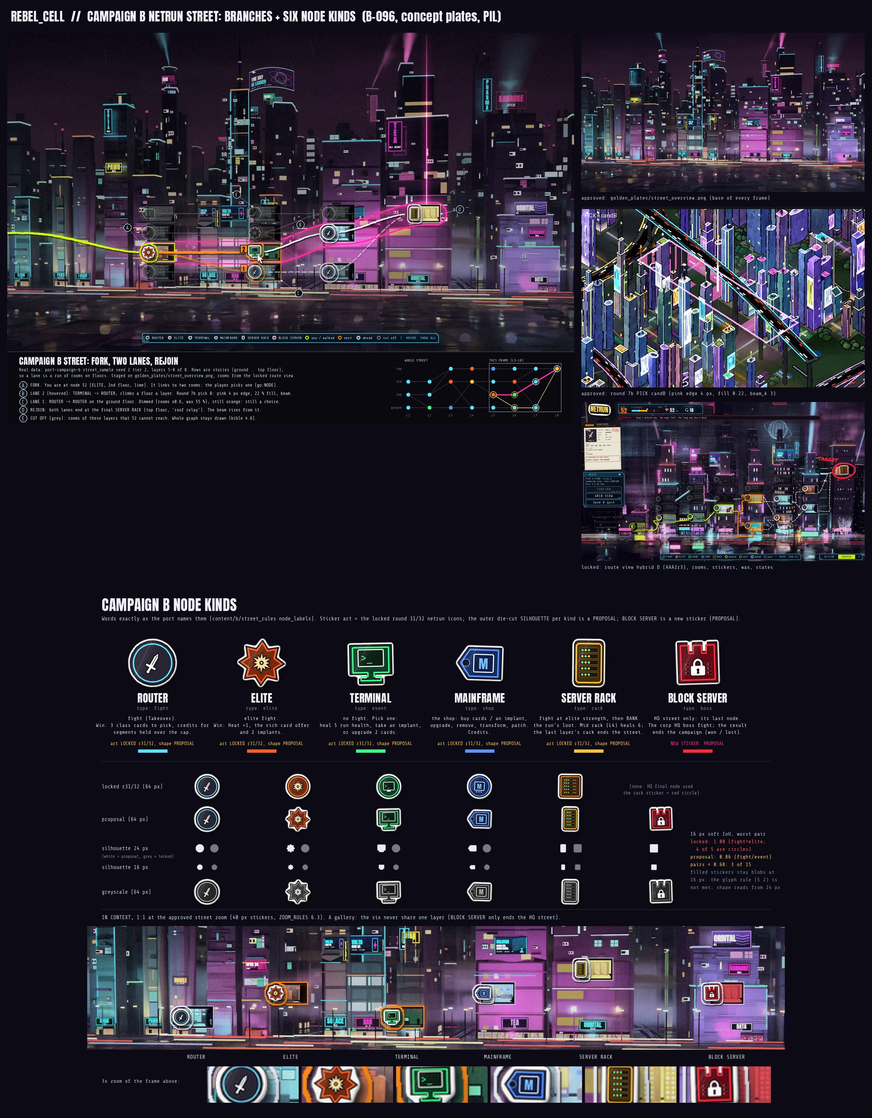
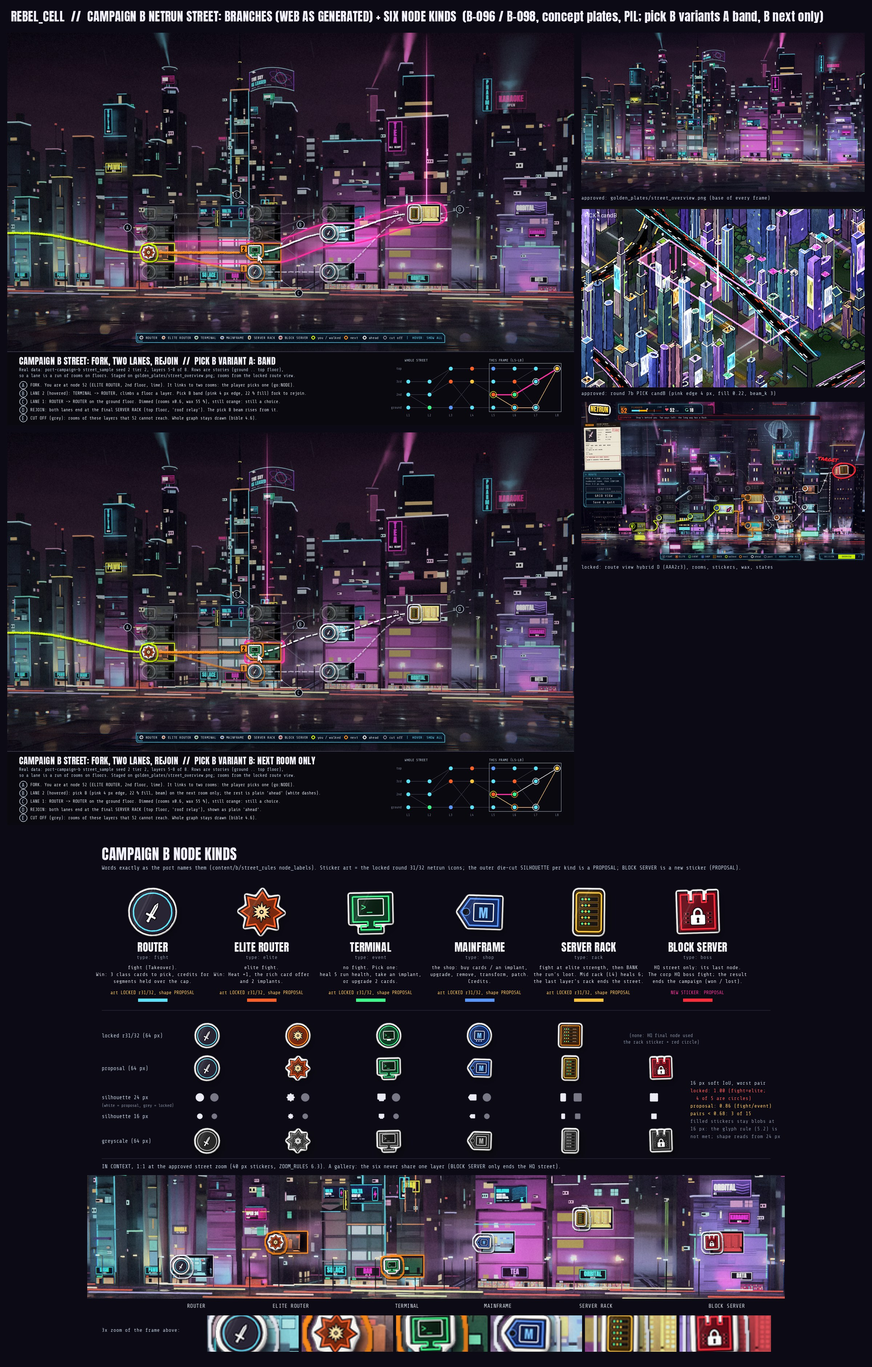
Street plates: ELITE ROUTER on screen, two pick-B variants (band / next room), keep-the-web ruling in NOTES (B-098)

diff --git a/docs/concepts/netrun_cel/street_b/src/street_branch_compose.py b/docs/concepts/netrun_cel/street_b/src/street_branch_compose.py
@@ -21,7 +21,7 @@ def callout(img, x, y, letter, tx=None, ty=None):
     return img
 
 
-def mini_graph(img, x0, y0, w, h, N, depth, lanes, cur, hover, opts, reach):
+def mini_graph(img, x0, y0, w, h, N, depth, lanes, cur, hover, opts, reach, variant="A"):
     """The whole street of the sample (8 layers x 4 stories): the frame's window bracketed, the lanes coloured."""
     d = ImageDraw.Draw(img)
     lx = lambda l: x0 + 18 + (l - 1) * (w - 36) / (depth - 1)
@@ -39,7 +39,8 @@ def mini_graph(img, x0, y0, w, h, N, depth, lanes, cur, hover, opts, reach):
             m = N[j]
             p0, p1 = (lx(n["layer"]), ry(n["row"])), (lx(m["layer"]), ry(m["row"]))
             if i in hi and j in hi and hi.index(j) == hi.index(i) + 1:
-                d.line([p0, p1], fill=B.PICKB + (255,), width=4)
+                pink = variant == "A" or i == cur
+                d.line([p0, p1], fill=(B.PICKB if pink else B.WHITE) + (255,), width=4 if pink else 2)
             elif i in lo and j in lo and lo.index(j) == lo.index(i) + 1:
                 d.line([p0, p1], fill=(255, 190, 120, 200), width=2)
             else:
@@ -58,9 +59,29 @@ def mini_graph(img, x0, y0, w, h, N, depth, lanes, cur, hover, opts, reach):
     return img
 
 
+VARIANTS = {
+    "A": ("street_branch_A_band.png", "PICK B VARIANT A: BAND",
+          "LANE 2 (hovered): TERMINAL -> ROUTER, climbs a floor a layer. Pick B band (pink 4 px edge, 22 % fill) fork to rejoin.",
+          "REJOIN: both lanes end at the final SERVER RACK (top floor, 'roof relay'). The pick B beam rises from it."),
+    "B": ("street_branch_B_next.png", "PICK B VARIANT B: NEXT ROOM ONLY",
+          "LANE 2 (hovered): pick B (pink 4 px edge, 22 % fill, beam) on the next room only; the rest is plain 'ahead' (white dashes).",
+          "REJOIN: both lanes end at the final SERVER RACK (top floor, 'roof relay'), shown as plain 'ahead'."),
+}
+
+
 def run():
-    frame, N, lanes, win, opts, reach = SB.main()
-    frame.convert("RGB").save(B.SCR + "/street_branch_frame.png")
+    for v in ("A", "B"):
+        run_one(v)
+    import os
+    old = B.OUTDIR + "/street_branch.png"
+    if os.path.exists(old):
+        os.remove(old)
+
+
+def run_one(variant):
+    fname, title, note_b, note_d = VARIANTS[variant]
+    frame, N, lanes, win, opts, reach = SB.main(variant)
+    frame.convert("RGB").save(B.SCR + "/street_branch_frame_%s.png" % variant)
     img = frame.copy()
     bx = lambda i: SB.box_of(N[i])
     # plate notes on the frame
@@ -82,16 +103,16 @@ def run():
     d.line([(0, B.H), (B.W, B.H)], fill=(60, 60, 80, 255), width=2)
     y0 = B.H + 18
     t = B.font_anton(30)
-    B.K.text(out, (40, y0 + 14), "CAMPAIGN B STREET: FORK, TWO LANES, REJOIN", t, (240, 240, 250), "lm", 0.5)
+    B.K.text(out, (40, y0 + 14), "CAMPAIGN B STREET: FORK, TWO LANES, REJOIN  //  " + title, t, (240, 240, 250), "lm", 0.5)
     B.K.text(out, (40, y0 + 44), "Real data: port-campaign-b street_sample seed 2 tier 2, layers 5-8 of 8. Rows are stories (ground .. top floor),",
              B.font_mono(15), NOTE, "lm", 0)
     B.K.text(out, (40, y0 + 64), "so a lane is a run of rooms on floors. Staged on golden_plates/street_overview.png; rooms from the locked route view.",
              B.font_mono(15), NOTE, "lm", 0)
     notes = [
-        ("A", "FORK. You are at node 52 (ELITE, 2nd floor, lime). It links to two rooms: the player picks one (go:NODE)."),
-        ("B", "LANE 2 (hovered): TERMINAL -> ROUTER, climbs a floor a layer. Round 7b pick B: pink 4 px edge, 22 % fill, beam."),
+        ("A", "FORK. You are at node 52 (ELITE ROUTER, 2nd floor, lime). It links to two rooms: the player picks one (go:NODE)."),
+        ("B", note_b),
         ("C", "LANE 1: ROUTER -> ROUTER on the ground floor. Dimmed (rooms x0.6, wax 55 %), still orange: still a choice."),
-        ("D", "REJOIN: both lanes end at the final SERVER RACK (top floor, 'roof relay'). The beam rises from it."),
+        ("D", note_d),
         ("E", "CUT OFF (grey): rooms of these layers that 52 cannot reach. Whole graph stays drawn (bible 4.6)."),
     ]
     yy = y0 + 96
@@ -101,9 +122,9 @@ def run():
         yy += 28
     import json
     s = json.load(open(B.SCR + "/samples.json"))[SB.SAMPLE]
-    out = mini_graph(out, 1340, B.H + 34, 540, 172, N, s["depth"], lanes, SB.CUR, SB.HOVER, opts, reach)
-    out.convert("RGB").save(B.OUTDIR + "/street_branch.png")
-    print("saved", B.OUTDIR + "/street_branch.png")
+    out = mini_graph(out, 1340, B.H + 34, 540, 172, N, s["depth"], lanes, SB.CUR, SB.HOVER, opts, reach, variant)
+    out.convert("RGB").save(B.OUTDIR + "/" + fname)
+    print("saved", B.OUTDIR + "/" + fname)
 
 
 if __name__ == "__main__":

diff --git a/docs/concepts/netrun_cel/street_b/src/street_branch.py b/docs/concepts/netrun_cel/street_b/src/street_branch.py
@@ -40,7 +40,10 @@ def stk_xy(n):
     return (x0 + 2, (y0 + y1) / 2)
 
 
-def main():
+def main(variant="A"):
+    """variant A (band): pick B from the fork through the hovered lane to the rejoin, beam from the rejoin.
+    variant B (next only): pick B on the hovered next room only, beam from that room; the rest of the lane is plain
+    'ahead' (white dashes, full rooms)."""
     N, s = load()
     win = {i: n for i, n in N.items() if FIRST <= n["layer"] <= LAST}
     opts = N[CUR]["links"]                                    # [61, 62]
@@ -77,20 +80,34 @@ def main():
     for a, b in zip(pts[1:], pts[2:]):
         band_pts += B.link_path(a, b)[1:]
     band_pts.append((pts[-1][0] + 30, pts[-1][1]))
-    mask = B.lane_mask(img.size, band_pts, RH + 30)
+    if variant == "A":
+        mask = B.lane_mask(img.size, band_pts, RH + 30)
+    else:
+        # B: a pick B pad round the hovered next room only (a rounded block one slab wider than the room)
+        hb = box_of(N[HOVER])
+        cx, cy = (hb[0] + hb[2]) / 2, (hb[1] + hb[3]) / 2
+        # a rounded pad 14 px proud of the room's cut edge sideways, 8 px up and down (the slab gap to the rooms
+        # stacked above / below is 16 px, so the pink edge stays visible between them)
+        mask = Image.new("L", img.size, 0)
+        ImageDraw.Draw(mask).rounded_rectangle([hb[0] - 34, hb[1] - 16, hb[2] + 16, hb[3] + 12], radius=10, fill=255)
     img = B.grade(img, mask, k_out=0.86, desat_out=0.12)
 
     # rooms: every node of the window is a real room (whole graph shown, bible 4.6)
     lo_set = set(lane_lo[1:-1]) - set(lane_hi)
-    # the fill sits on the facade band (as it sits on the road lots in the city band); the rooms stay clear
+    # the fill sits on the facade (as it sits on the road lots in the city band); the rooms stay clear
     img = B.pick_b(img, mask)
+    if variant == "B":
+        # beam from the hovered room, drawn before the rooms so the rooms stacked above occlude it
+        hb = box_of(N[HOVER])
+        img = B.beam(img, (hb[0] + hb[2]) / 2, 0, hb[1] - 8, k=3.0)
     for i, n in sorted(win.items()):
         st = state(i)
         mode = "grey" if st == "grey" else ("dim" if i in lo_set else "full")
         img = B.room(img, n["type"], box_of(n), mode)
-    # beam (pick B beam_k 3.0) from the lane's end: the final SERVER RACK on the top floor, rising to the sky
-    end = box_of(N[lane_hi[-1]])
-    img = B.beam(img, (end[0] + end[2]) / 2, 0, end[1] - 8, k=3.0)
+    if variant == "A":
+        # beam (pick B beam_k 3.0) from the lane's end: the final SERVER RACK on the top floor, rising to the sky
+        end = box_of(N[lane_hi[-1]])
+        img = B.beam(img, (end[0] + end[2]) / 2, 0, end[1] - 8, k=3.0)
 
     # room frames in the state colour (route view: the room's cut edge carries the state)
     for i, n in win.items():
@@ -122,7 +139,10 @@ def main():
                 grey_paths.append(p)
     img = B.wax(img, grey_paths, B.GREY, 4.0, alpha=0.38, seed=504, clear=clear)
     img = B.wax(img, ahead_lo, B.WHITE, 5.0, alpha=0.55, dash=(14.0, 9.0), seed=503, clear=clear)
-    img = B.wax(img, ahead_hi, B.WHITE, 5.6, alpha=1.0, seed=505, clear=clear)
+    if variant == "A":
+        img = B.wax(img, ahead_hi, B.WHITE, 5.6, alpha=1.0, seed=505, clear=clear)
+    else:
+        img = B.wax(img, ahead_hi, B.WHITE, 5.2, alpha=1.0, dash=(14.0, 9.0), seed=505, clear=clear)
     # walked: in from layer 4 (node 42 r2 rack, off frame left) to the current node
     cxy = stk_xy(N[CUR])
     walked = B.link_path((-20, ROW0_TOP - PITCH * 2 + RH / 2), cxy, bend=0.7)

diff --git a/docs/concepts/netrun_cel/street_b/src/sheet.py b/docs/concepts/netrun_cel/street_b/src/sheet.py
@@ -14,12 +14,16 @@ def fit(im, w):
 
 
 def main():
-    sb = Image.open(B.OUTDIR + "/street_branch.png").convert("RGB")
+    sa = Image.open(B.OUTDIR + "/street_branch_A_band.png").convert("RGB")
+    sbn = Image.open(B.OUTDIR + "/street_branch_B_next.png").convert("RGB")
     nk = Image.open(B.OUTDIR + "/node_kinds.png").convert("RGB")
     gold = Image.open(B.GOLDEN).convert("RGB")
     r7 = Image.open(B.CONC + "/netrun_cel/zoom_rules/round7b/crop_sheet.png").convert("RGB").crop((1100, 345, 1640, 690))
     aaa = Image.open(B.CONC + "/route_map_graph/side_view/v3_aaa/r3/AAA2r3.png").convert("RGB")
-    left = fit(sb, 1560)
+    la, lb = fit(sa, 1560), fit(sbn, 1560)
+    left = Image.new("RGB", (1560, la.height + 20 + lb.height), (12, 10, 20))
+    left.paste(la, (0, 0))
+    left.paste(lb, (0, la.height + 20))
     rw = SW - left.width - 60
     refs = [(fit(gold, rw), "approved: golden_plates/street_overview.png (base of every frame)"),
             (fit(r7, rw), "approved: round 7b PICK candB (pink edge 4 px, fill 0.22, beam_k 3)"),
@@ -28,7 +32,7 @@ def main():
     H = 90 + top_h + 40 + nk.height + 30
     out = Image.new("RGB", (SW, H), (12, 10, 20))
     o = out.convert("RGBA")
-    B.K.text(o, (30, 45), "REBEL_CELL  //  CAMPAIGN B NETRUN STREET: BRANCHES + SIX NODE KINDS  (B-096, concept plates, PIL)",
+    B.K.text(o, (30, 45), "REBEL_CELL  //  CAMPAIGN B NETRUN STREET: BRANCHES (WEB AS GENERATED) + SIX NODE KINDS  (B-096 / B-098, concept plates, PIL; pick B variants A band, B next only)",
              B.font_anton(34), (240, 240, 250), "lm", 0.4)
     o.paste(left, (20, 90))
     y = 90

diff --git a/docs/concepts/netrun_cel/street_b/src/sb_lib.py b/docs/concepts/netrun_cel/street_b/src/sb_lib.py
@@ -54,7 +54,7 @@ PICKB_LINE = 4
 # orange, the proposal splits them: elite red-orange, rack amber).
 KINDS = {
     "fight": dict(word="ROUTER", locked="router", shape="circle", col=(40, 36, 52), ring=(92, 225, 255), cell="router"),
-    "elite": dict(word="ELITE", locked="elite", shape="burst", col=(120, 40, 14), ring=(255, 96, 40), cell="elite"),
+    "elite": dict(word="ELITE ROUTER", locked="elite", shape="burst", col=(120, 40, 14), ring=(255, 96, 40), cell="elite"),
     "event": dict(word="TERMINAL", locked="terminal", shape="rsq", col=(14, 60, 36), ring=(61, 255, 139), cell="terminal"),
     "shop": dict(word="MAINFRAME", locked="modem", shape="tag", col=(20, 40, 96), ring=(90, 150, 255), cell="shop"),
     "rack": dict(word="SERVER RACK", locked="rack", shape="tall", col=(66, 44, 8), ring=(255, 196, 60), cell="rack"),

diff --git a/docs/concepts/netrun_cel/street_b/NOTES.md b/docs/concepts/netrun_cel/street_b/NOTES.md
@@ -1,81 +1,111 @@
-# Campaign B street: branches + six node kinds (B-096)
+# Campaign B street: branches + six node kinds (B-096, B-098)
 
 Concept plates only, PIL compositing, built from approved plates. Not committed.
-- `street_branch.png`: the staged street (golden `street_overview.png` framing) with a real fork, two lanes and a rejoin. Lane 2 is hovered in round 7b pick B. Lane 1 is dimmed but still a choice.
-- `node_kinds.png`: a key strip of the six kinds with what each does; the locked round 31/32 stickers next to the proposal silhouettes; silhouette, greyscale and 16 px checks; the six kinds in context, 1:1 at the approved zoom.
-- `street_b_sheet.jpg`: both plates with the three references they are built from.
-- `src/`: the scripts. Run order is `street_samples.py`, `street_branch.py`, `node_kinds.py`, `sheet.py`. Scratch files are in `D:/rc_scratch/street_b/`.
+
+## Files
+- **`street_branch_A_band.png`** (pick B variant A, band): the staged street (golden `street_overview.png` framing) with a real fork, two lanes and a rejoin.
+  - Pick B runs from the fork through the hovered lane to the rejoin.
+  - The beam rises from the rejoin.
+  - The other lane is dimmed but still a choice.
+- **`street_branch_B_next.png`** (pick B variant B, next only): the same street.
+  - Pick B is a pad on the hovered next room only, with the beam rising from that room behind the rooms stacked above it.
+  - The rest of the hovered lane is plain "ahead" (white dashes, full rooms).
+  - The old single `street_branch.png` is removed.
+- **`node_kinds.png`**:
+  - a key strip of the six kinds with what each does;
+  - the locked round 31/32 stickers beside the proposal silhouettes;
+  - silhouette, greyscale and 16 px checks;
+  - the six kinds in context, 1:1 at the approved zoom.
+- **`street_b_sheet.jpg`**: both branch variants and node kinds, with the three references they are built from.
+- **`src/`**: the scripts. Run order is `street_samples.py`, `street_branch.py` (writes both variants), `node_kinds.py`, `sheet.py`. Scratch files are in `D:/rc_scratch/street_b/`.
+
+## Rulings and answers recorded
+- **Designer ruling, 2026-11-15: "Keep the web".** The street is drawn as the four-floor web the generator makes (2-4 rooms a layer on four stories, paths crossing and merging, all rejoining at the last node), not as two lanes. The plates already draw it that way. "Two lanes" survives only as the name for a fork that splits into exactly two rooms and rejoins.
+- **B-098 (build, answering A-125):**
+  1. Draw the web as generated. Done.
+  2. The sixth kind is **SERVER RACK** (not CACHE).
+  3. The on-screen word for type `elite` is **ELITE ROUTER**. It replaces ELITE on every plate (key strip, stickers, labels, in-context strip, branch plates). The content's `node_labels` still says "ELITE"; build owns that change.
+  4. Depth is **8** for a site street and **10** for the HQ street.
+  5. Show both pick B variants; the designer picks at review. Done (A band, B next only).
+  6. The zoom-window re-check for 8 and 10 layers waits for build's Godot ping. Not done here, on purpose.
 
 ## Sources of each rule (all read only, from `port-campaign-b`)
-- **Node kinds and words**: `content/b/street_rules/b_street_rules.tres` `node_labels`. Types are in `scripts/state/street_node_state.gd` (`T_FIGHT .. T_BOSS`).
+- **Node kinds**: `content/b/street_rules/b_street_rules.tres` (`node_labels`); types are in `scripts/state/street_node_state.gd`. Screen words follow B-098.
 - **Generation**: `scripts/core/street_generator.gd`. Levers come from `tools/proto_web/export/data/street_gen.json`: `streetDepth` 8, `streetMin` 2, `streetMax` 4, `rackMid` 4, `eliteFrom`/`eliteTo` 3/6 at 85 %, `mfFrom`/`mfTo` 3/5, `mfExtraPct` 10, `terminalPct` 25, `linkExtraPct` 45, `hqDepth` 10, `reclaimDepth` 3.
 - **What each kind does**: `scripts/core/street_session.gd` (`enter_node`, `finish_fight`, `_event_move`, `next_floor`, `shop_move`). `is_elite()` covers elite and rack. Levers: `termHeal` 5, `rackHeal` 6, `heatElite` 1.
 - **Player picks**: in `street_session.move("go:NODE")`, the move is legal only for a node in `street.next_nodes()`, which are the current node's links.
 - **Rows are stories**: `story_labels` are ground floor, 2nd floor, 3rd floor and top floor. The lever text reads "at most 4: four stories".
 - **Real streets**: the 10 samples in `content/b/street_sample/`. `src/street_samples.py` parses them and finds every fork-to-rejoin window.
-- **Look**: bible 4.6 (hybrid D: rooms in the frontage, vinyl-sticker nodes, wax links, the ring states orange/lime/white/grey, the whole graph shown) and ZOOM_RULES 5.1 / 6 (framing, 40 px nodes). Round 7b candB gives the pick B values: edge (1.0, 0.18, 0.62), 4 px line, fill 0.22, beam_k 3.0. Sticker art comes from `route_map_graph/hq_halcyon/scripts/r32ui.py` (imported, not modified).
+- **Look**:
+  - bible 4.6: hybrid D (rooms in the frontage, vinyl-sticker nodes, wax links, the ring states orange/lime/white/grey, the whole graph shown);
+  - ZOOM_RULES 5.1 / 6: framing, 40 px nodes;
+  - round 7b candB: edge (1.0, 0.18, 0.62), 4 px line, fill 0.22, beam_k 3.0;
+  - sticker art: `route_map_graph/hq_halcyon/scripts/r32ui.py` (imported, not modified).
 
-## Node kinds (exact port words)
-| type | word | what it does (port) |
+## Node kinds (screen words per B-098)
+| type id | on-screen word | what it does (port) |
 |---|---|---|
 | fight | ROUTER | Takeover fight. A win offers 3 class cards, plus credits for segments held over the cap. |
-| elite | ELITE | Elite fight. A win adds Heat +1 and gives the rich card offer plus 2 implants. |
+| elite | ELITE ROUTER | Elite fight. A win adds Heat +1 and gives the rich card offer plus 2 implants. |
 | event | TERMINAL | No fight. Pick one: heal 5 run health, take an implant, or upgrade 2 random cards. |
 | shop | MAINFRAME | Buy cards or an implant, upgrade, remove, transform, patch. The first tier-1 visit gets one free action. |
 | rack | SERVER RACK | Fight configured as elite, rich reward, then BANKS the run's loot. The mid rack (layer 4) also heals 6 and adds Heat +1. The last-layer rack ends the street cleared. |
-| boss | BLOCK SERVER | Only on the HQ street, as its last node. HQ boss fight; the result ends the campaign (won or lost). |
+| boss | BLOCK SERVER | Only on the HQ street (10 layers), as its last node. HQ boss fight; the result ends the campaign (won or lost). |
 
 ## How branching works (per the rules)
-- A street is **8 layers** (`streetDepth`). Layer sizes:
-  - layer 1 and layer 7: 2-3 nodes;
-  - layers 2-6: 2-4 nodes;
+- A **site street is 8 layers** and the **HQ street is 10**. Layer sizes:
+  - layer 1 and the next-to-last layer: 2-3 nodes;
+  - the layers between: 2-4 nodes;
   - layer 4 (the mid rack): at least 3;
-  - layer 8: 1 node (SERVER RACK, or BLOCK SERVER on the HQ street).
-  The samples have 20-24 nodes. A walk visits 8 of them.
+  - the last layer: 1 node (SERVER RACK, or BLOCK SERVER on the HQ street).
+  Site samples have 20-24 nodes. A walk visits one node a layer.
 - Each node sits on a **row 0-3, which is a story**. Each node links forward to 1-3 nodes of the next layer: its nearest row index, plus each neighbour at 45 %. Every next-layer node gets at least one parent.
 - The **player picks** any linked next node (`go:NODE`). Nodes are never revisited.
-- **There are no persistent lanes.** Paths cross and merge every layer, and every path rejoins at the single final node. The designer's "two lanes in places" is what a run looks like where a node has exactly 2 links and the two runs stay apart until a shared node.
-  - Pure fork-to-rejoin windows appear in every sample (e.g. layer 6 → 7 → 8), usually 1 layer long.
-  - Seed 2 tier 2 and seed 3 tier 1 have a 2-layer pair. The plate uses seed 2 tier 2 from fork 52: 52 → {61 → 71, 62 → 72} → 81.
+- **There are no persistent lanes.** Paths cross and merge every layer, and all of them rejoin at the last node.
+  - Pure fork-to-rejoin windows appear in every sample (usually 1 layer long).
+  - Seed 2 tier 2 and seed 3 tier 1 have a 2-layer pair. The plates use seed 2 tier 2 from fork 52: 52 → {61 → 71, 62 → 72} → 81.
 - Counter wheels (35 %, tier 2+) are only ever placed where a route around them exists.
 
 ## Calls I made
-1. **A lane is a run of rooms on floors**, not a road lane. The data says rows are stories, and the locked route view already reads "PICK A FLOOR". So the fork is drawn as rooms splitting across floors in the frontage: the hovered lane climbs, the other stays on the ground floor.
-2. **Pick B moved from road lots to the facade band.** The pink 22 % fill and 4 px edge run as a band from the fork through the hovered lane to the rejoin, which is the street-level twin of the city band's segment. The fill skips the rooms so their kind light stays readable.
-3. **The beam rises from the rejoin**, the final rack on the top floor. Every other node has rooms stacked above it, so a beam there would cross them.
-4. **Dimming of the other lane** is softer than the bible's hover power cut (×0.20): rooms ×0.6, wax at 55 %, sticker at 78 %, orange ring kept. It must stay readable as an option. Outside the band the frame drops only ×0.86.
-5. **Staging.** The golden plate's camera has closed walls and no rooms. I cut the rooms into its frontage, using room interiors from the locked AAA2r3 render (one interior per kind). The 4-story columns, the room size (86×50, 66 px pitch) and the column placement are mine, not derived from a camera or a city layout. The BLOCK SERVER room is the rack room re-lit red; no render of it exists.
-6. **Stickers.** I kept the locked round 31/32 art inside every sticker and proposed a die-cut silhouette per kind:
+1. **A lane is a run of rooms on floors**, not a road lane. The data says rows are stories, and the locked route view already reads "PICK A FLOOR".
+2. **Pick B lives on the facade**, where it sits on the road lots in the city band; the rooms stay clear so their kind light reads.
+   - Variant A is a band from the fork to the rejoin, with the beam from the rejoin. A beam from a mid node would cross the rooms stacked above it.
+   - Variant B is a rounded pad around the next room, with the beam from that room drawn behind the rooms above it. The rest of the lane uses the plain "ahead" grammar (white dashes).
+3. **Dimming of the other lane** is softer than the bible's hover power cut (×0.20): rooms ×0.6, wax at 55 %, sticker at 78 %, orange ring kept. It must stay readable as an option. Outside the highlight the frame drops only ×0.86.
+4. **Staging.** The golden plate's camera has closed walls and no rooms. I cut the rooms into its frontage, using room interiors from the locked AAA2r3 render (one interior per kind). The 4-story columns, the room size (86×50, 66 px pitch) and the column placement are mine, not derived from a camera or a city layout. The BLOCK SERVER room is the rack room re-lit red; no render of it exists.
+5. **Stickers.** I kept the locked round 31/32 art inside every sticker and proposed a die-cut silhouette per kind:
    - ROUTER: circle (unchanged);
-   - ELITE: 8-point burst (pointed = attack);
+   - ELITE ROUTER: 8-point burst (pointed = attack);
    - TERMINAL: monitor;
    - MAINFRAME: price tag (the shop's kraft tags);
    - SERVER RACK: tall rack;
    - BLOCK SERVER: a crenellated keep with a padlock. This is a new sticker (proposal), built from the locked glyph `state_locked`.
 
-   Kind colours follow `sidekit.TYPE_COL`, so ELITE red-orange and SERVER RACK amber are split; both used MER orange in r32ui. No raid_v3 icon fitted.
-7. **The in-game key strip** uses the port words. The ring states are the locked ones.
-8. Sticker size is 40 px (ZOOM_RULES 6.3). All 12 nodes of layers 5-8 are drawn, with the unreachable ones grey (bible 4.6 whole-graph rule).
+   Kind colours follow `sidekit.TYPE_COL`, so ELITE ROUTER red-orange and SERVER RACK amber are split; both used MER orange in r32ui. No raid_v3 icon fitted.
+6. **The in-game key strip** uses the B-098 words. The ring states are the locked ones.
+7. Sticker size is 40 px (ZOOM_RULES 6.3). All 12 nodes of layers 5-8 are drawn, with the unreachable ones grey (whole-graph rule, and now the designer's "keep the web").
 
 ## Weak points
 - **16 px silhouettes.**
   - Filled stickers stay blobs at 16 px. Soft IoU in the proposal is at worst 0.86 (ROUTER/TERMINAL), and 3 of 15 pairs are under 0.68. The locked set is 1.00 (4 of 5 are circles).
   - The shapes read from about 24 px and clearly at the 40 px street size.
   - The bible's 0.68 glyph rule is not met at 16 px by any sticker set (`D:/rc_scratch/street_b/silhouette_iou.json`).
-- **Elite colour.** ELITE red-orange sits close to the "next" orange ring; the burst shape carries the difference.
+- **Elite colour.** ELITE ROUTER red-orange sits close to the "next" orange ring; the burst shape carries the difference.
+- **Variant B pad.** The rooms above and below the hovered room sit 16 px away, so the pad's bottom edge is partly hidden by the room below. The pink reads on the sides, the top and through the beam. Variant B is quieter overall and easier to miss than A.
 - **Staged camera.**
   - The street_overview camera cannot show 4 floors of rooms over 4 layers in real buildings; the columns are staged.
   - The layer spacing is uneven (360 / 250 / 290 px).
   - The current node sits at x 0.27, not the 0.33 third.
-- **Frame load.** There are 12 nodes in frame against ZOOM_RULES 6.3's "at most 6". The bible's whole-graph rule wins, but the frame is busy at layers 5-6.
+- **Frame load.** There are 12 nodes in frame against ZOOM_RULES 6.3's "at most 6". The web ruling wins, but the frame is busy at layers 5-6.
 - **Room scale.** Rooms are small (50 px tall) against the plate's 60 px ground floors, and the AAA2r3 interiors are a different render; the match is close but not exact.
-- **Process.** One build step mistakenly piped two python scripts together, so they ran at the same time. Both only read and wrote scratch/plate files; everything was rebuilt one process at a time afterwards.
+- **Process slips**, both harmless:
+  - one build step piped two python scripts together, so they ran at the same time;
+  - one stray `python -` (stdin from /dev/null) hung and was stopped. It ran no code.
 
-## Open questions for the designer / build
-1. Should the street show the whole 4-row web, as the rules generate it, or did "two lanes in places" mean the generator should change to at most 2 nodes per layer in places? The plates follow the current rules.
-2. PORT_SPEC (UI table) lists node cards "fight, elite, shop, event, **cache**, boss". The generator has **rack** (SERVER RACK); NAME_MAP has both CACHE and Server Rack. Which is the sixth kind's word?
-3. `node_labels` say **ELITE**; NAME_MAP and GDD say **Elite Router**. Which goes on screen?
-4. HQ street depth: the lever says `hqDepth` 10, but `b_street_sample_seed1_tier4_hq` is 8 deep. Which is current? (BLOCK SERVER ends it either way.)
-5. Approve the silhouette-per-kind proposal (it changes the locked circles' outline only) and the BLOCK SERVER keep sticker.
-6. Pick B on the street: the band from the fork to the end (as drawn), or only the hovered next room plus its link?
-7. The ZOOM_RULES camera spec says 7 layers; Campaign B has 8 (10 on the HQ street). The dolly window (3.5 layers) needs a re-check.
+  Everything was rebuilt one process at a time afterwards.
+
+## Open questions (still open)
+1. **Silhouettes and sticker.** Approve the silhouette-per-kind proposal (it changes the locked circles' outline only) and the BLOCK SERVER keep sticker.
+2. **Pick B variant:** A band or B next only. The designer picks at review (B-098).
+3. **Elite word in content.** `node_labels` still says ELITE; build to change it to ELITE ROUTER in the content when it lands.
+4. **Zoom window** for 8 / 10 layers (ZOOM_RULES assumes 7 and a 3.5-layer window). Waits for build's Godot ping (B-098 item 6).
